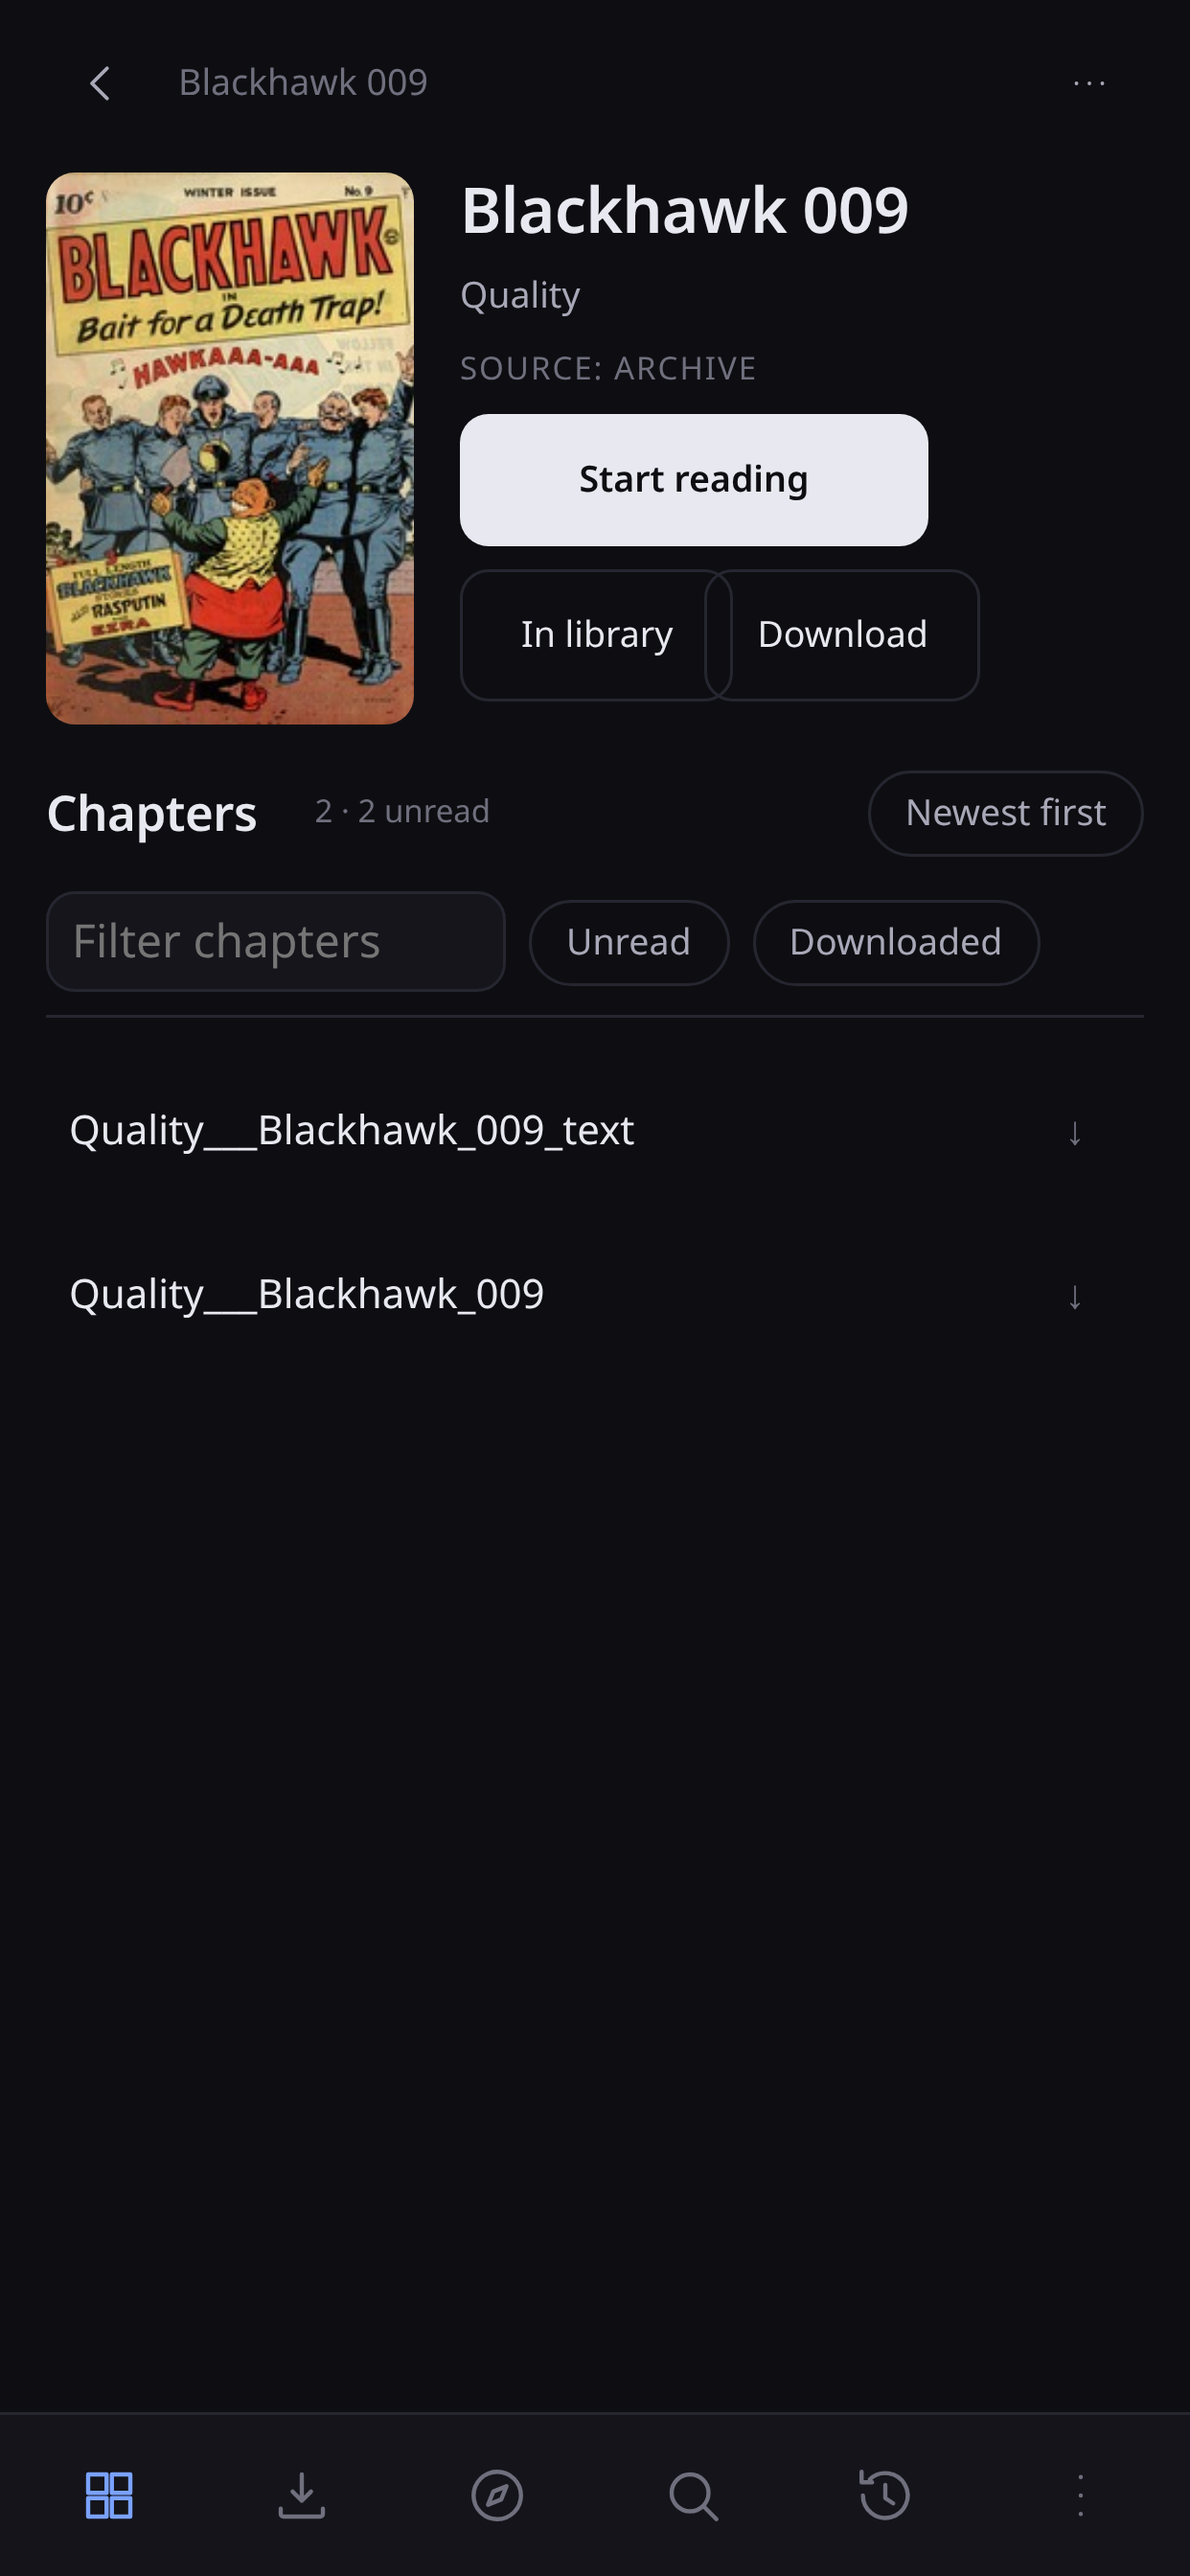
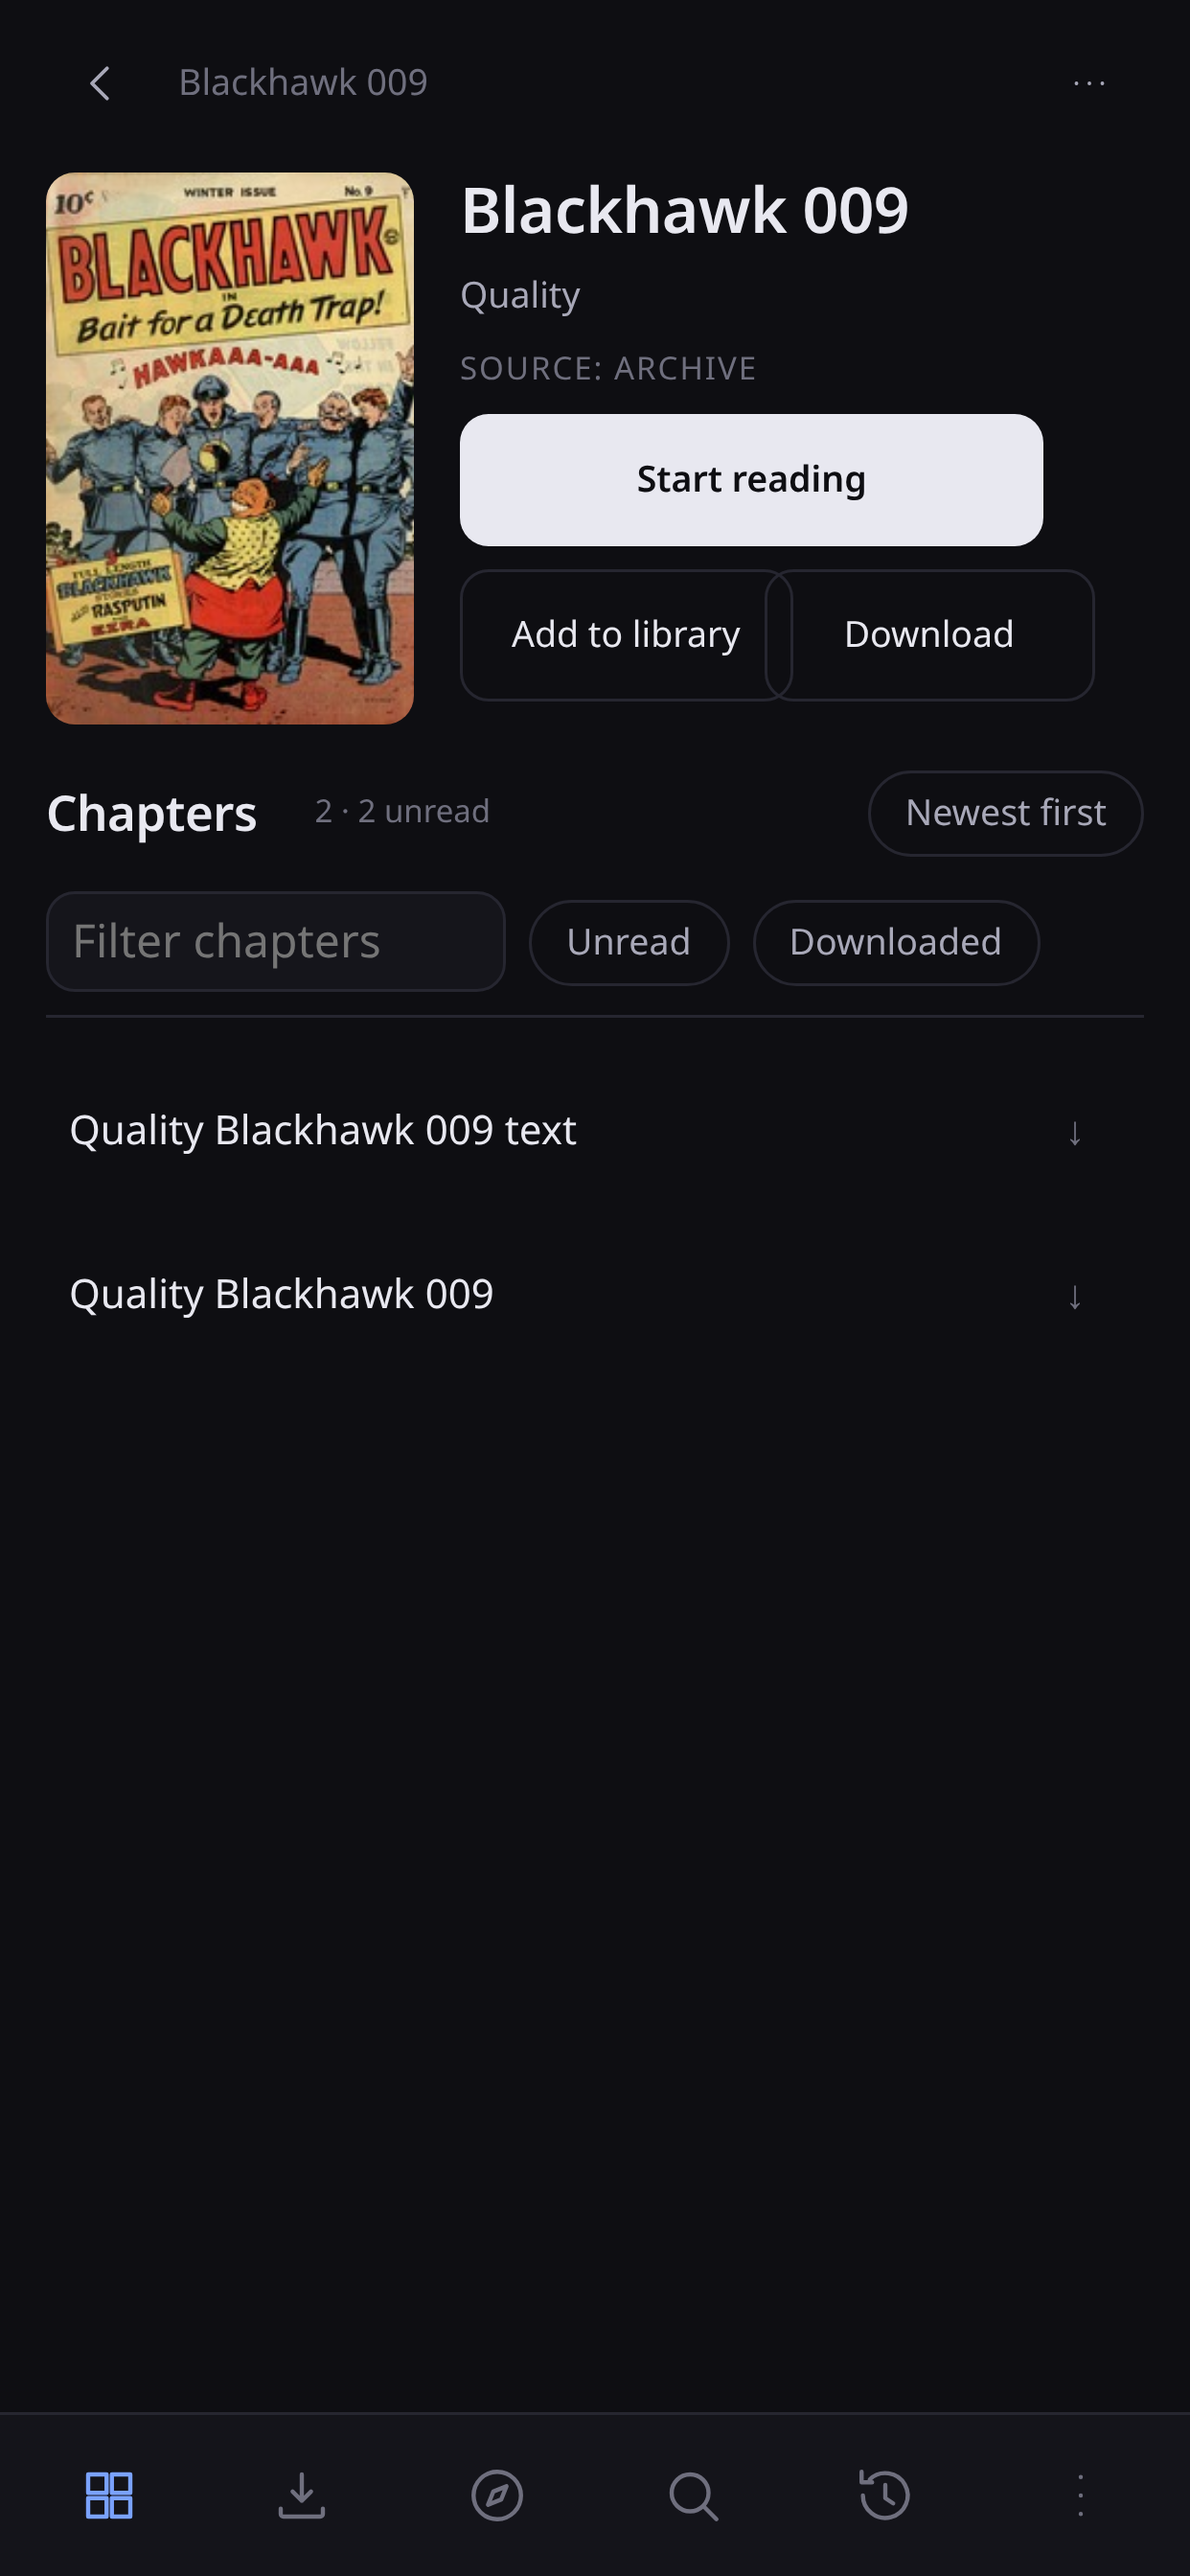
A chapter says what it is, not what file it lives in
An Internet Archive series page listed its chapters as "Quality__Blackhawk_009_text" and
"Quality__Blackhawk_009": the archive's own file names, double underscores and extension included,
sitting under a clean title. It was the one visibly unpolished thing in the store screenshots, and
it is a better argument than any card that nobody had looked at the screen a reviewer looks at
first.

chapterNameOf() turns the archive's separators into spaces and drops the extension — and nothing
else, because the rest of the name is the only thing telling two volumes of a run apart. Two files
of one volume (a zip of scans and its text-layer PDF, which is common) clean to the same words, so
the second gets its number instead of becoming a duplicate row. A name that is only separators is
the whole item, and says "Complete book".

The chapter id still carries the file's own name, so renaming a row cannot change what it opens —
there is a test for that, because it is the kind of thing that silently breaks a saved position.

Gates: 806/806, tsc clean, svelte-check 0 errors, build green. Verified live on Blackhawk 009: the
list reads "Quality Blackhawk 009 text" and "Quality Blackhawk 009". Both series screenshots
re-shot at 6.9" and 6.5" against the fixed build, cover art filled.

diff --git a/src/api/archive.ts b/src/api/archive.ts
@@ -194,6 +194,34 @@ export interface BookFile {
 }
 
 /**
+ * A chapter's name, from the file archive.org stores it in.
+ *
+ * `Quality__Blackhawk_009.cbz` is how the archive names a scan, and a chapter list is the one place
+ * that name is the wrong thing to show: it reads as a leaked file path sitting under a clean title.
+ * The separators are the archive's own convention, so they become spaces and the extension goes;
+ * nothing else is invented, because the rest of the name is the only thing telling two volumes of
+ * the same run apart.
+ *
+ * An item that ships the same volume twice — a zip of scans and a text-layer PDF, which is common —
+ * keeps both rows (`books` dedupes by base name, and those bases differ) and so two chapters can
+ * clean to the same words. The second one gets its number, so a list never shows two identical rows.
+ */
+export function chapterNameOf(fileName: string, taken: ReadonlySet<string> = new Set()): string {
+  const cleaned = fileName
+    .replace(/\.[^.]+$/, "")
+    .replace(/[_]+/g, " ")
+    .replace(/\s+/g, " ")
+    .trim();
+  if (cleaned === "") return "Complete book";
+  if (!taken.has(cleaned)) return cleaned;
+  for (let suffix = 2; suffix < 100; suffix += 1) {
+    const candidate = `${cleaned} (${suffix})`;
+    if (!taken.has(candidate)) return candidate;
+  }
+  return cleaned;
+}
+
+/**
  * What counts as a book file.
  *
  * The extension is the reliable half: archive.org's `format` labels are human strings ("Comic Book
@@ -467,20 +495,22 @@ export function createArchiveProvider(options: ArchiveProviderOptions = {}): Sou
       const meta = await item(identifier);
 
       if (meta.books.length > 0) {
-        return meta.books.map(
-          (book, index) =>
-            ({
-              id: chapterId(identifier, book.name),
-              seriesId,
-              name: book.name.replace(/\.[^.]+$/, ""),
-              number: index + 1,
-              // The zip's directory page is the real count and costs one request per chapter:
-              // asking for forty-one of them on a series screen is a stampede. `pages()` fetches
-              // the one chapter actually opened, and the row stays quiet until then.
-              pageCount: 0,
-              read: false,
-            }) satisfies Chapter,
-        );
+        const taken = new Set<string>();
+        return meta.books.map((book, index) => {
+          const name = chapterNameOf(book.name, taken);
+          taken.add(name);
+          return {
+            id: chapterId(identifier, book.name),
+            seriesId,
+            name,
+            number: index + 1,
+            // The zip's directory page is the real count and costs one request per chapter:
+            // asking for forty-one of them on a series screen is a stampede. `pages()` fetches
+            // the one chapter actually opened, and the row stays quiet until then.
+            pageCount: 0,
+            read: false,
+          } satisfies Chapter;
+        });
       }
 
       const leaves = meta.leafCount ?? (await pageIndexCount(fetchImpl, base, identifier, [])) ?? null;
